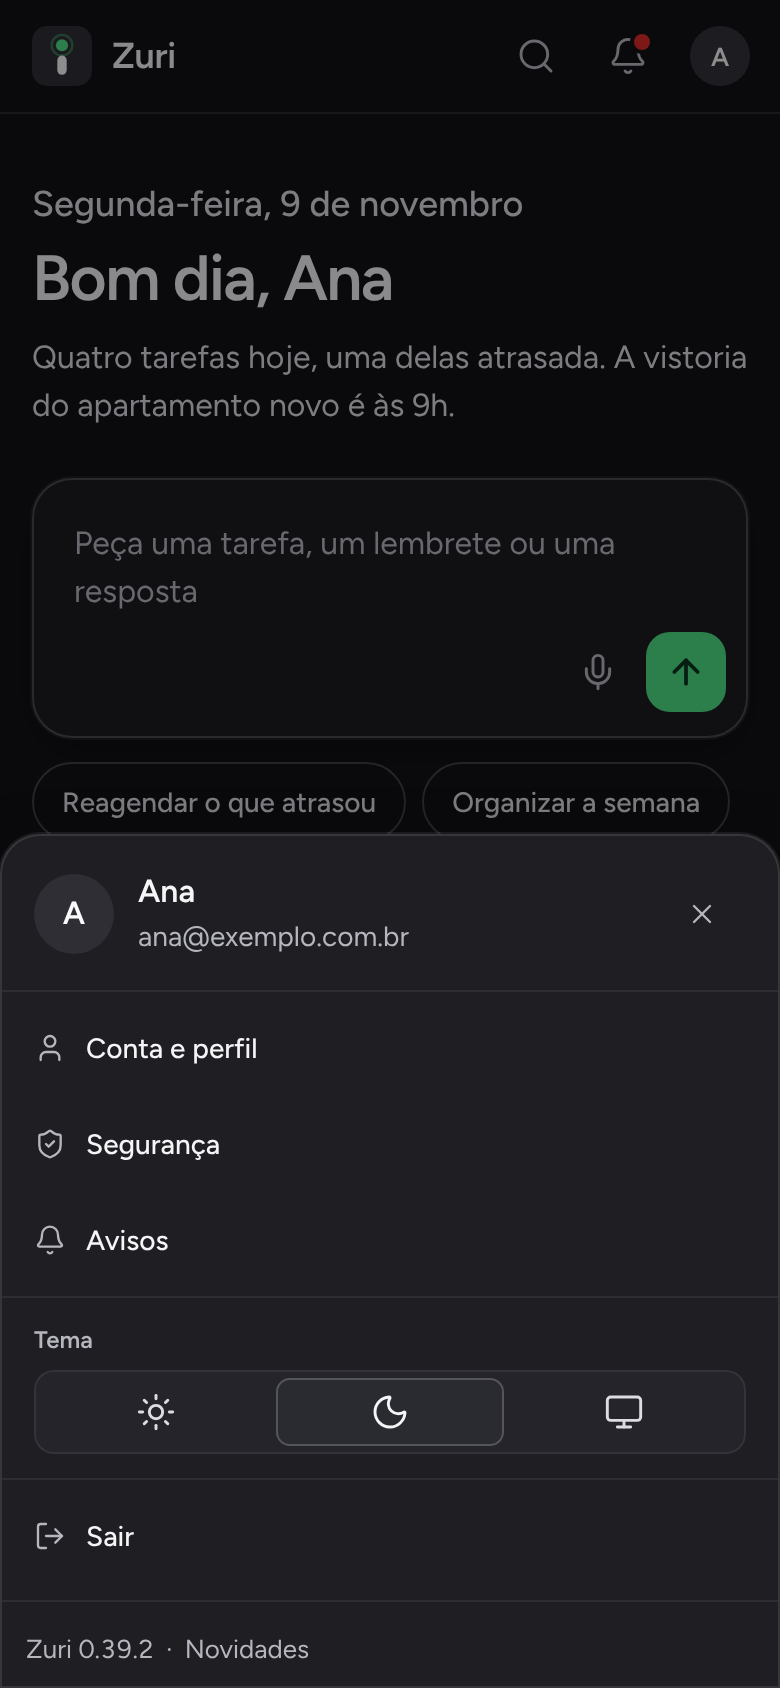
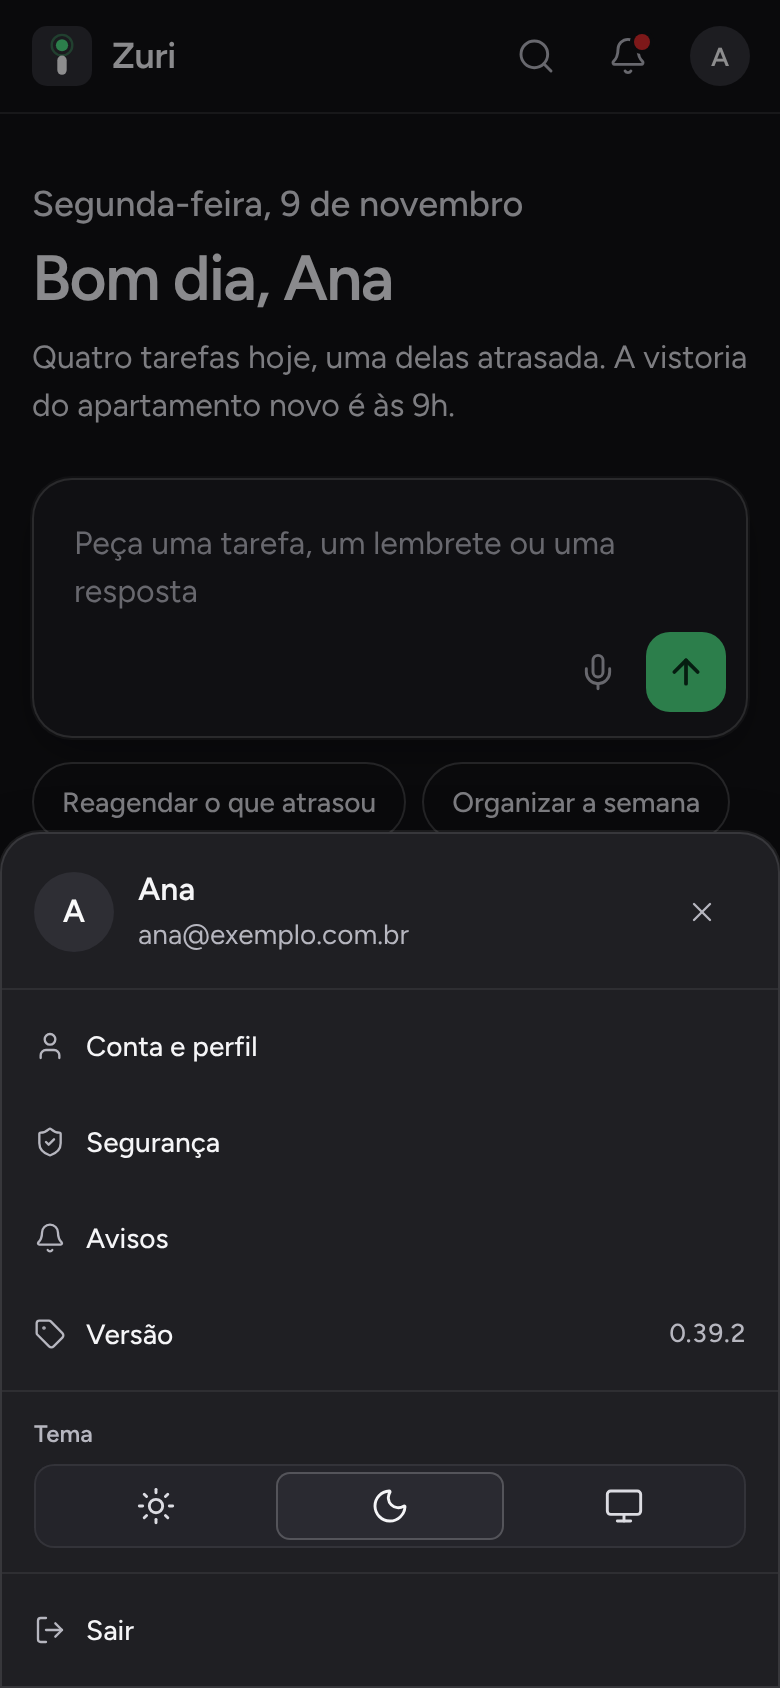
docs(planos): versão da Zuri numa linha própria do menu do perfil
Pedido do Pablo (10/11, 02:00): a versão ganha uma linha com ícone
logo abaixo de "Avisos" no menu do perfil, no lugar do rodapé.

Claude-Session: https://claude.ai/code/session_012XDDEerS3cpuzdVGkXufcX

diff --git a/docs/planos/modelos-frontend/prototipo-interativo.html b/docs/planos/modelos-frontend/prototipo-interativo.html
@@ -2022,6 +2022,8 @@ details.adv>.form-grid,details.adv>.hint{padding:0 var(--s4) var(--s4)}
 /* Map labels: only exist while hovered or focused, so they never widen the page */
 .mm-tip{display:none}
 .mm-node:hover .mm-tip,.mm-node:focus-visible .mm-tip{display:block}
+/* Version row in the profile menu: label on the left, number quiet on the right */
+.pop-list .pop-meta{margin-left:auto;padding-left:var(--s3);color:var(--muted);font-size:var(--t-xs)}
 
 /* ---------- interações do protótipo publicado ---------- */
 .proto{position:relative;flex:none}
@@ -2504,10 +2506,10 @@ function pops() {
       <ul class="pop-list">
         <li><a href="${href("configuracoes")}" data-cfg-go="conta">${ic("user", "ic-sm")}Conta e perfil</a></li>
         <li><a href="${href("configuracoes")}" data-cfg-go="seg">${ic("shield-check", "ic-sm")}Segurança</a></li>
-        <li><a href="${href("configuracoes")}" data-cfg-go="avisos">${ic("bell", "ic-sm")}Avisos</a></li></ul>
+        <li><a href="${href("configuracoes")}" data-cfg-go="avisos">${ic("bell", "ic-sm")}Avisos</a></li>
+        <li><a href="${href("configuracoes")}" data-cfg-go="sobre">${ic("tag", "ic-sm")}<span>Versão</span><span class="pop-meta num">${APP_VER}</span></a></li></ul>
       <div class="pop-sec"><p class="label" id="pop-tema">Tema</p>${temaSeg()}</div>
-      <ul class="pop-list"><li><a href="${href("entrar")}" data-logout>${ic("log-out", "ic-sm")}Sair</a></li></ul>
-      <p class="pop-ver"><a href="${href("configuracoes")}" data-cfg-go="sobre"><span class="num">Zuri ${APP_VER}</span><span aria-hidden="true">·</span><span>Novidades</span></a></p></div></div>`;
+      <ul class="pop-list"><li><a href="${href("entrar")}" data-logout>${ic("log-out", "ic-sm")}Sair</a></li></ul></div></div>`;
   if (st.menu === "avisos") {
     const n = AVISOS.filter((a) => a.unread).length;
     return `<div class="pop-wrap" data-scrim="menu"><div class="pop pop-avisos" role="dialog" aria-modal="true" aria-labelledby="h-av">

diff --git a/docs/planos/modelos-frontend/prototipo-v5.html b/docs/planos/modelos-frontend/prototipo-v5.html
@@ -1982,6 +1982,8 @@ details.adv>.form-grid,details.adv>.hint{padding:0 var(--s4) var(--s4)}
 /* Map labels: only exist while hovered or focused, so they never widen the page */
 .mm-tip{display:none}
 .mm-node:hover .mm-tip,.mm-node:focus-visible .mm-tip{display:block}
+/* Version row in the profile menu: label on the left, number quiet on the right */
+.pop-list .pop-meta{margin-left:auto;padding-left:var(--s3);color:var(--muted);font-size:var(--t-xs)}
 
 </style>
 </head>
@@ -2414,10 +2416,10 @@ function pops() {
       <ul class="pop-list">
         <li><a href="${href("configuracoes")}" data-cfg-go="conta">${ic("user", "ic-sm")}Conta e perfil</a></li>
         <li><a href="${href("configuracoes")}" data-cfg-go="seg">${ic("shield-check", "ic-sm")}Segurança</a></li>
-        <li><a href="${href("configuracoes")}" data-cfg-go="avisos">${ic("bell", "ic-sm")}Avisos</a></li></ul>
+        <li><a href="${href("configuracoes")}" data-cfg-go="avisos">${ic("bell", "ic-sm")}Avisos</a></li>
+        <li><a href="${href("configuracoes")}" data-cfg-go="sobre">${ic("tag", "ic-sm")}<span>Versão</span><span class="pop-meta num">${APP_VER}</span></a></li></ul>
       <div class="pop-sec"><p class="label" id="pop-tema">Tema</p>${temaSeg()}</div>
-      <ul class="pop-list"><li><a href="${href("entrar")}" data-logout>${ic("log-out", "ic-sm")}Sair</a></li></ul>
-      <p class="pop-ver"><a href="${href("configuracoes")}" data-cfg-go="sobre"><span class="num">Zuri ${APP_VER}</span><span aria-hidden="true">·</span><span>Novidades</span></a></p></div></div>`;
+      <ul class="pop-list"><li><a href="${href("entrar")}" data-logout>${ic("log-out", "ic-sm")}Sair</a></li></ul></div></div>`;
   if (st.menu === "avisos") {
     const n = AVISOS.filter((a) => a.unread).length;
     return `<div class="pop-wrap" data-scrim="menu"><div class="pop pop-avisos" role="dialog" aria-modal="true" aria-labelledby="h-av">

diff --git a/docs/planos/novo-frontend-sinal.md b/docs/planos/novo-frontend-sinal.md
@@ -52,7 +52,7 @@ A varredura de 09/11 comparou as rotas, os cartões de Configurações e os comp
 | Configurações › Integrações (Google, servidores MCP) | Sim | H |
 | Configurações › Dados (backup, importar, backup automático, restaurar, lixeira com "Voltar" e "Ver tudo") | Sim; "Baixar backup" baixa um arquivo de exemplo | H |
 | Configurações › Diagnóstico | Sim, com "Relatar no GitHub" em cada falha e a prévia do que vai na issue (seção 7, "Relatar no GitHub") | H |
-| Versão (hoje no menu da conta, na lista das Configurações do celular e no Diagnóstico) | Seção nova **Configurações › Sobre a Zuri** e uma linha discreta "Zuri 0.39.2 · Novidades" no pé do menu do perfil, que deixa de ter "Agenda" | H (B para o menu) |
+| Versão (hoje no menu da conta, na lista das Configurações do celular e no Diagnóstico) | Seção nova **Configurações › Sobre a Zuri** e a linha "Versão 0.39.2", com ícone próprio, logo abaixo de "Avisos" no menu do perfil, que deixa de ter "Agenda" | H (B para o menu) |
 | Acessos (`/acessos`) | "Ver todos os acessos" em Segurança abre a lista com filtro | H |
 | Paleta ⌘K | Sim | B |
 | Lembrete de duas etapas, aviso de sessão perto do fim, senha de novo, confirmação | Estados das telas | A |
@@ -139,7 +139,7 @@ Os textos do protótipo entram no catálogo pelas chaves existentes sempre que o
 
 - `APP_VERSION` (`packages/shared/src/version.ts`) já vai no bundle da tela. O servidor ganha `GET /api/version` (sessão exigida, resposta `{ version }`, sem cache), que lê a mesma constante do bundle do Worker.
 - **Configurações › Sobre a Zuri:** "Zuri 0.39.2", data da instalação, e uma das duas linhas: "Tudo na mesma versão" ou "A tela está em X e o servidor em Y. Recarregue a página." com o botão "Recarregar". "Conferir de novo" chama a rota. Embaixo, "Novidades desta versão" (do `CHANGELOG.md`, gerado no build, só os itens da versão) e "Ver todas as versões" (abre as releases em outra aba).
-- No pé do menu do perfil, em texto pequeno: "Zuri 0.39.2 · Novidades", que leva a Sobre. "Agenda" sai desse menu.
+- No menu do perfil, uma linha própria logo abaixo de "Avisos", com o ícone de etiqueta: "Versão" à esquerda e o número (0.39.2) discreto à direita; leva a Sobre a Zuri (pedido do Pablo, 10/11, 02:00). "Agenda" sai desse menu.
 - Assim, depois de cada atualização, o Pablo abre Sobre e vê a versão nova e "Tudo na mesma versão".
 
 ### Relatar no GitHub (PR H)
@@ -268,7 +268,7 @@ Tudo o que foi definido no protótipo entra no app. A ordem respeita as dependê
 | # | PR | O que entra | Depende de | Tamanho |
 | --- | --- | --- | --- | --- |
 | 1 | A · Fundamentos | Tokens, Figtree em woff2, peças base, tema só com ícones | Aprovação do Sinal refinado | M |
-| 2 | B · Casca | Menu lateral com Avaliações, Automações (Rotinas, Fluxos) e CRM (Módulos, Credenciais), menu de baixo no celular, folha "Mais", perfil e avisos em painel (versão no pé do perfil, sem "Agenda"), ⌘K | A; teto do JS aprovado (até 141 kB, resposta 2 de 10/11) | G |
+| 2 | B · Casca | Menu lateral com Avaliações, Automações (Rotinas, Fluxos) e CRM (Módulos, Credenciais), menu de baixo no celular, folha "Mais", perfil e avisos em painel (linha "Versão" abaixo de "Avisos", sem "Agenda"), ⌘K | A; teto do JS aprovado (até 141 kB, resposta 2 de 10/11) | G |
 | 3 | I · Entrada | Textos novos, campo de e-mail sem exemplo, os seis estados da verificação de segurança, "Esqueci minha senha" ao lado da senha, recuperação no desenho novo, título da página de erro | A | P |
 | 4 | C · Início | Saudação pela hora, cortina do que passou, pendências | B | M |
 | 5 | Servidor · sugestões | [sugestoes-do-inicio.md](sugestoes-do-inicio.md) e as sugestões no Início | C | M |

diff --git a/.claude/memoria/decisoes.md b/.claude/memoria/decisoes.md
@@ -114,6 +114,6 @@ Fatos e decisões já tomados pelo Pablo. O agente não pergunta de novo nada da
 - Saudação do Início pela hora (bom dia, boa tarde, boa noite) e tela de entrar com "Seu dia em ordem, sem esforço." e "Continue de onde parou.", sem texto de exemplo no campo de e-mail (09/11/2026, pedido do Pablo).
 - Menu **CRM** (10/11/2026, pedido do Pablo): Módulos e Conexões saem de Automações para um item próprio do menu lateral, CRM, com as partes Módulos e **Credenciais** (novo nome de Conexões). Automações fica com Rotinas e Fluxos.
 - Respostas de 10/11/2026: teto do JS inicial até 141 kB se a economia não bastar; Configurações › Agenda ganha horário e dias de trabalho e a opção de esconder eventos de dia inteiro e fora do horário; as sugestões do Início usam IA só para escolher e ordenar; o índice de recomendação pelas estrelas serve como NPS, com abertura do link medida pelo link pessoal; a parte de Clientes do CRM fica para depois.
-- Versão visível (10/11/2026, pedido do Pablo): Configurações › Sobre a Zuri mostra a versão e se a tela e o servidor estão na mesma; o menu do perfil mostra a versão de forma discreta e não tem mais "Agenda".
+- Versão visível (10/11/2026, pedido do Pablo): Configurações › Sobre a Zuri mostra a versão e se a tela e o servidor estão na mesma; o menu do perfil mostra a versão numa linha própria, com ícone, logo abaixo de "Avisos", e não tem mais "Agenda".
 - Pentest autônomo final (10/11/2026, pedido do Pablo): depois de todo o frontend novo, um agente autônomo testa o sistema como pentester e aplica as correções. Só começa com tudo concluído **e** autorização explícita do Pablo; só no ambiente local ou de ensaio.
 - Capturas do README (10/11/2026, pedido do Pablo): cada PR que troca uma tela refaz a captura do README; nenhuma captura do visual antigo fica no fim.

diff --git a/docs/planos/modelos-frontend.md b/docs/planos/modelos-frontend.md
@@ -128,7 +128,7 @@ O Sinal continua sendo o Sinal: a mesma marca (o ponto verde sobre a haste), a f
 - **Contatos:** a faixa de etiquetas virou o botão "Etiqueta: Todas ▾" com uma lista que tem busca e contagem.
 - **Avaliações:** aba **Como responder**, com dados do consultório, instruções (até 2.000 caracteres), o que fazer em cada nota, exemplos, palavras proibidas e um teste que gera o rascunho sem publicar.
 - **Memória:** filtros à esquerda, lista agrupada por tipo, painel com "Ligada a", "Aparece em" e "Memórias próximas", e a visão **Mapa**, parecida com o grafo do Obsidian, sem IA nova.
-- **Versão:** Configurações › **Sobre a Zuri** mostra a versão, a data e se a tela e o servidor estão na mesma versão; o menu do perfil perdeu "Agenda" e ganhou "Zuri 0.39.2 · Novidades" no pé.
+- **Versão:** Configurações › **Sobre a Zuri** mostra a versão, a data e se a tela e o servidor estão na mesma versão; o menu do perfil perdeu "Agenda" e ganhou a linha "Versão 0.39.2", com ícone próprio, logo abaixo de "Avisos" (ajuste das 02:00).
 - **Relatar no GitHub:** prévia de todos os campos que vão preenchidos na issue.
 - **Nada escondido:** a varredura das 53 vistas nos dois tamanhos tirou toda faixa que rolava de lado (seções das Configurações no celular viraram uma lista, botões de Tarefas mostram o texto).
 - **Frases descritivas** de todas as telas e seções revistas; tabela em [novo-frontend-sinal.md](novo-frontend-sinal.md), seção 7.
